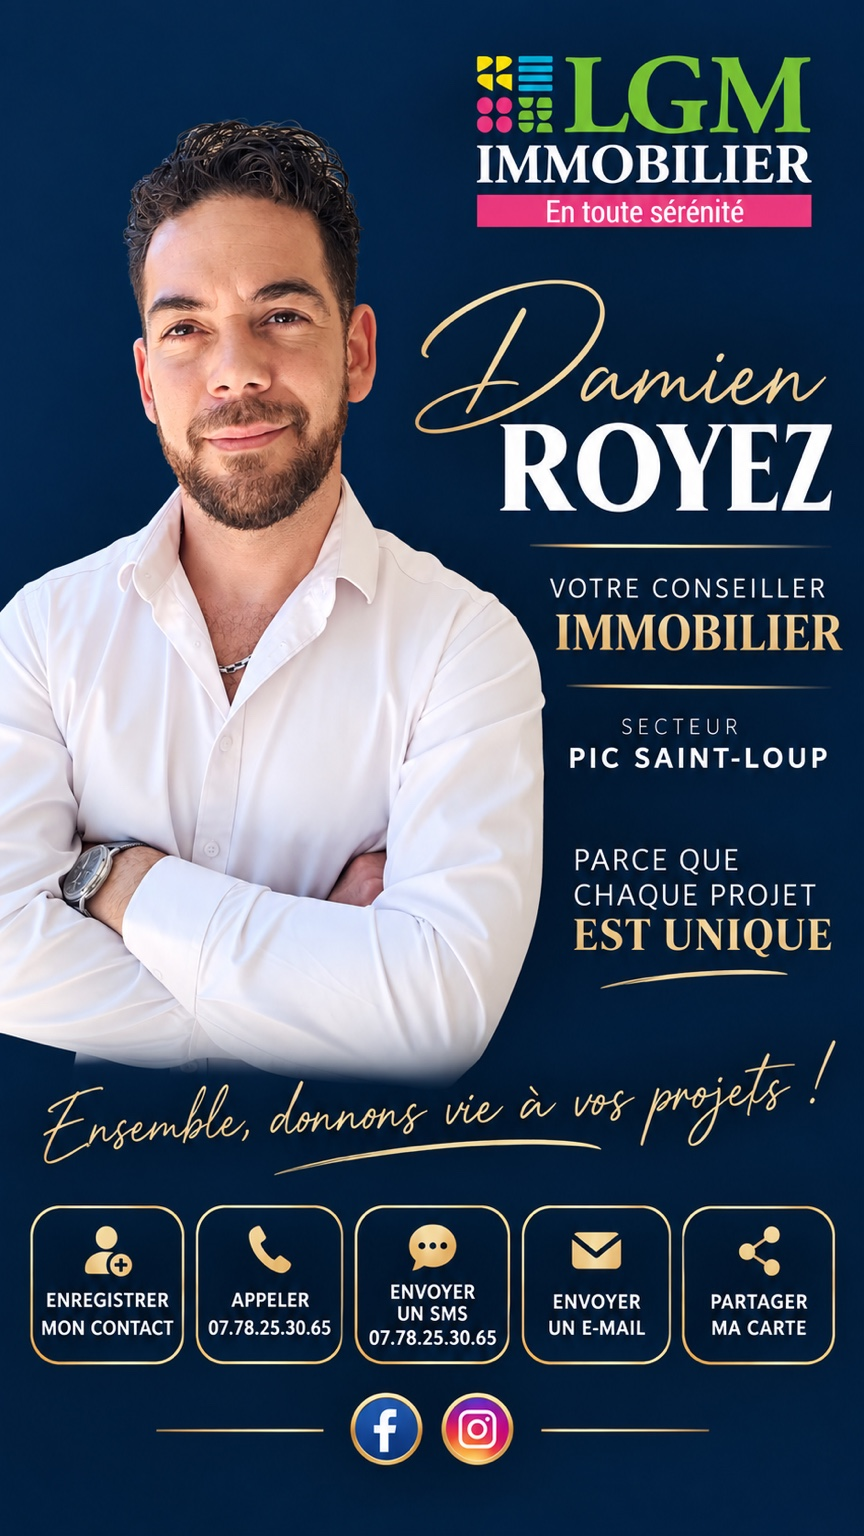
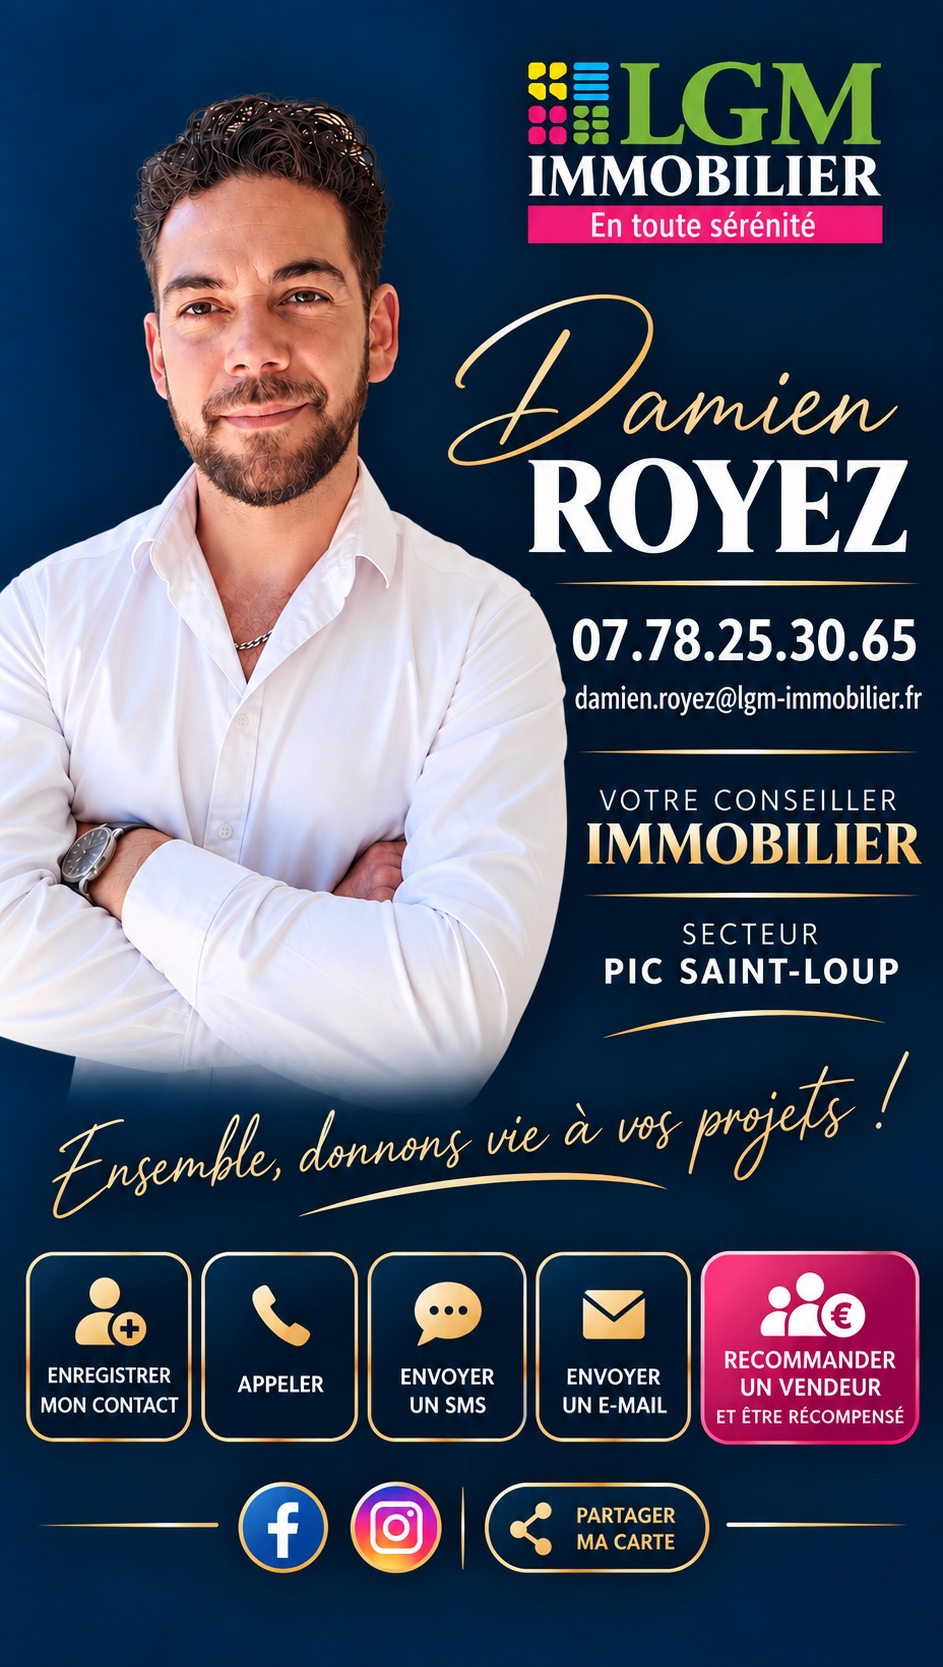
Add files via upload

diff --git a/index.html b/index.html
@@ -1,19 +1,1 @@
-<!doctype html><html lang="fr"><head>
-<meta charset="utf-8"><meta name="viewport" content="width=device-width,initial-scale=1,viewport-fit=cover">
-<title>Damien ROYEZ VCARD</title><meta name="theme-color" content="#061b31">
-<meta name="apple-mobile-web-app-capable" content="yes"><meta name="apple-mobile-web-app-status-bar-style" content="black-translucent">
-<meta name="apple-mobile-web-app-title" content="Damien ROYEZ VCARD">
-<link rel="manifest" href="manifest.webmanifest"><link rel="apple-touch-icon" href="icon-180.png"><link rel="stylesheet" href="style.css">
-</head><body><main id="vcard">
-<img src="carte.jpg" alt="Damien ROYEZ - Votre conseiller immobilier Pic Saint-Loup" draggable="false">
-<a class="hot save" href="damien-royez-contact-2026.vcf?v=20261001-1200" download aria-label="Enregistrer mon contact"></a>
-<a class="hot call" href="tel:+33778253065" aria-label="Appeler"></a>
-<a class="hot sms" href="sms:+33778253065" aria-label="Envoyer un SMS"></a>
-<a class="hot mail" href="mailto:damien.royez@lgm-immobilier.fr" aria-label="Envoyer un e-mail"></a>
-<button class="hot share" id="share" aria-label="Partager ma carte"></button>
-<a class="hot fb" href="https://www.facebook.com/share/1dgVY2gXfi/?mibextid=wwXIfr" target="_blank" rel="noopener" aria-label="Facebook"></a>
-<a class="hot ig" href="https://www.instagram.com/damien.royez_immo?stkn=MWQwODc5ZnB5ZGozbg%3D%3D&utm_source=qr" target="_blank" rel="noopener" aria-label="Instagram"></a>
-</main><script>
-document.getElementById('share').onclick=async()=>{const d={title:'Damien ROYEZ VCARD',text:'Damien ROYEZ – Votre conseiller immobilier, secteur Pic Saint-Loup',url:location.href};if(navigator.share){try{await navigator.share(d)}catch(e){}}else{try{await navigator.clipboard.writeText(location.href);alert('Lien de la carte copié !')}catch(e){}}};
-if('serviceWorker'in navigator)window.addEventListener('load',()=>navigator.serviceWorker.register('sw.js'));
-</script></body></html>
+<!doctype html><html lang="fr"><head><meta charset="utf-8"><meta name="viewport" content="width=device-width,initial-scale=1,viewport-fit=cover"><title>Damien ROYEZ VCARD</title><meta name="theme-color" content="#061b31"><meta name="apple-mobile-web-app-capable" content="yes"><meta name="apple-mobile-web-app-title" content="Damien ROYEZ VCARD"><link rel="manifest" href="manifest.webmanifest"><link rel="apple-touch-icon" href="icon-180.png"><link rel="stylesheet" href="style.css?v=20261016"></head><body><main id="vcard"><img src="carte.jpg?v=20261016" alt="Damien ROYEZ, conseiller immobilier Pic Saint-Loup"><a class="hot save" href="damien-royez-contact-2026.vcf?v=20261016" aria-label="Enregistrer mon contact"></a><a class="hot call" href="tel:+33778253065" aria-label="Appeler"></a><a class="hot sms" href="sms:+33778253065" aria-label="Envoyer un SMS"></a><a class="hot mail" href="mailto:damien.royez@lgm-immobilier.fr" aria-label="Envoyer un e-mail"></a><a class="hot reco" href="https://damien-recommandations.royezdamien.workers.dev/" aria-label="Recommander un vendeur"></a><a class="hot fb" href="https://www.facebook.com/share/1dgVY2gXfi/?mibextid=wwXIfr" target="_blank" rel="noopener" aria-label="Facebook"></a><a class="hot ig" href="https://www.instagram.com/damien.royez_immo" target="_blank" rel="noopener" aria-label="Instagram"></a><button class="hot share" id="share" aria-label="Partager ma carte"></button></main><script>document.getElementById('share').onclick=async()=>{const d={title:'Damien ROYEZ VCARD',text:'Damien ROYEZ – Votre conseiller immobilier, secteur Pic Saint-Loup',url:location.href};if(navigator.share){try{await navigator.share(d)}catch(e){}}else{try{await navigator.clipboard.writeText(location.href);alert('Lien de la carte copié !')}catch(e){prompt('Copier le lien :',location.href)}}};if('serviceWorker'in navigator)window.addEventListener('load',()=>navigator.serviceWorker.register('sw.js'));</script></body></html>

diff --git a/style.css b/style.css
@@ -1,36 +1,1 @@
-*{box-sizing:border-box}
-html,body{margin:0;padding:0;width:100%;min-height:100%;background:#061b31}
-html{background:#061b31}
-body{
-  min-height:100vh;
-  min-height:100dvh;
-  display:flex;
-  align-items:center;
-  justify-content:center;
-  overflow-x:hidden;
-  background:#061b31;
-}
-#vcard{
-  position:relative;
-  width:min(100vw,calc(100dvh * .5625),864px);
-  aspect-ratio:9/16;
-  flex:0 0 auto;
-  line-height:0;
-}
-#vcard>img{
-  display:block;
-  width:100%;
-  height:100%;
-  object-fit:contain;
-  user-select:none;
-  -webkit-user-select:none;
-}
-.hot{position:absolute;display:block;z-index:10;background:transparent;border:0;padding:0;cursor:pointer;-webkit-tap-highlight-color:transparent}
-.save{left:3.3%;top:78.25%;width:18.1%;height:10.9%}
-.call{left:22.5%;top:78.25%;width:17.5%;height:10.9%}
-.sms{left:41.1%;top:78.25%;width:17.5%;height:10.9%}
-.mail{left:60.3%;top:78.25%;width:17.5%;height:10.9%}
-.share{left:79.2%;top:78.25%;width:17.5%;height:10.9%}
-.fb{left:39.5%;top:90.55%;width:9.3%;height:6.4%;border-radius:50%}
-.ig{left:50.7%;top:90.55%;width:9.3%;height:6.4%;border-radius:50%}
-@media(min-width:865px){#vcard{box-shadow:0 12px 50px rgba(0,0,0,.28)}}
+*{box-sizing:border-box}html,body{margin:0;width:100%;min-height:100%;background:#061b31}body{min-height:100dvh;display:flex;align-items:center;justify-content:center;overflow-x:hidden}#vcard{position:relative;width:min(100vw,calc(100dvh * .5625),928px);aspect-ratio:9/16;flex:0 0 auto;line-height:0}#vcard>img{display:block;width:100%;height:100%;object-fit:contain;user-select:none;-webkit-user-select:none}.hot{position:absolute;display:block;z-index:10;background:transparent;border:0;padding:0;cursor:pointer;-webkit-tap-highlight-color:transparent}.save{left:2.7%;top:75%;width:17.8%;height:12%}.call{left:21%;top:75%;width:17.5%;height:12%}.sms{left:39%;top:75%;width:17.5%;height:12%}.mail{left:57%;top:75%;width:17.5%;height:12%}.reco{left:74.5%;top:75%;width:23%;height:12%}.fb{left:25%;top:89%;width:10.5%;height:6.5%}.ig{left:36.5%;top:89%;width:10.5%;height:6.5%}.share{left:50.5%;top:89%;width:26%;height:6.5%}@media(min-width:929px){#vcard{box-shadow:0 12px 50px rgba(0,0,0,.28)}}

diff --git a/sw.js b/sw.js
@@ -1,1 +1,1 @@
-const C='damien-royez-contact-force-v5',A=['./','index.html','style.css','carte.jpg','manifest.webmanifest','icon-180.png','icon-192.png','icon-512.png','damien-royez-contact-2026.vcf','damien-royez-contact-2026.jpg'];self.addEventListener('install',e=>{self.skipWaiting();e.waitUntil(caches.open(C).then(c=>c.addAll(A)))});self.addEventListener('activate',e=>{e.waitUntil(caches.keys().then(k=>Promise.all(k.filter(x=>x!==C).map(x=>caches.delete(x)))));self.clients.claim()});self.addEventListener('fetch',e=>e.respondWith(fetch(e.request,{cache:'no-store'}).catch(()=>caches.match(e.request))));
+const C='damien-vcard-20261016';self.addEventListener('install',e=>{self.skipWaiting()});self.addEventListener('activate',e=>{e.waitUntil(caches.keys().then(k=>Promise.all(k.filter(x=>x!==C).map(x=>caches.delete(x)))));self.clients.claim()});self.addEventListener('fetch',e=>{e.respondWith(fetch(e.request).catch(()=>caches.match(e.request)))})

diff --git a/README.md b/README.md
@@ -1,2 +1,2 @@
-# Damien ROYEZ VCARD
-Version visuelle exacte avec zones cliquables superposées.
+# Damien ROYEZ VCARD — octobre 2026
+Téléverser tous les fichiers à la racine du dépôt GitHub. Ne pas téléverser le ZIP lui-même. Cloudflare doit redéployer depuis GitHub.
